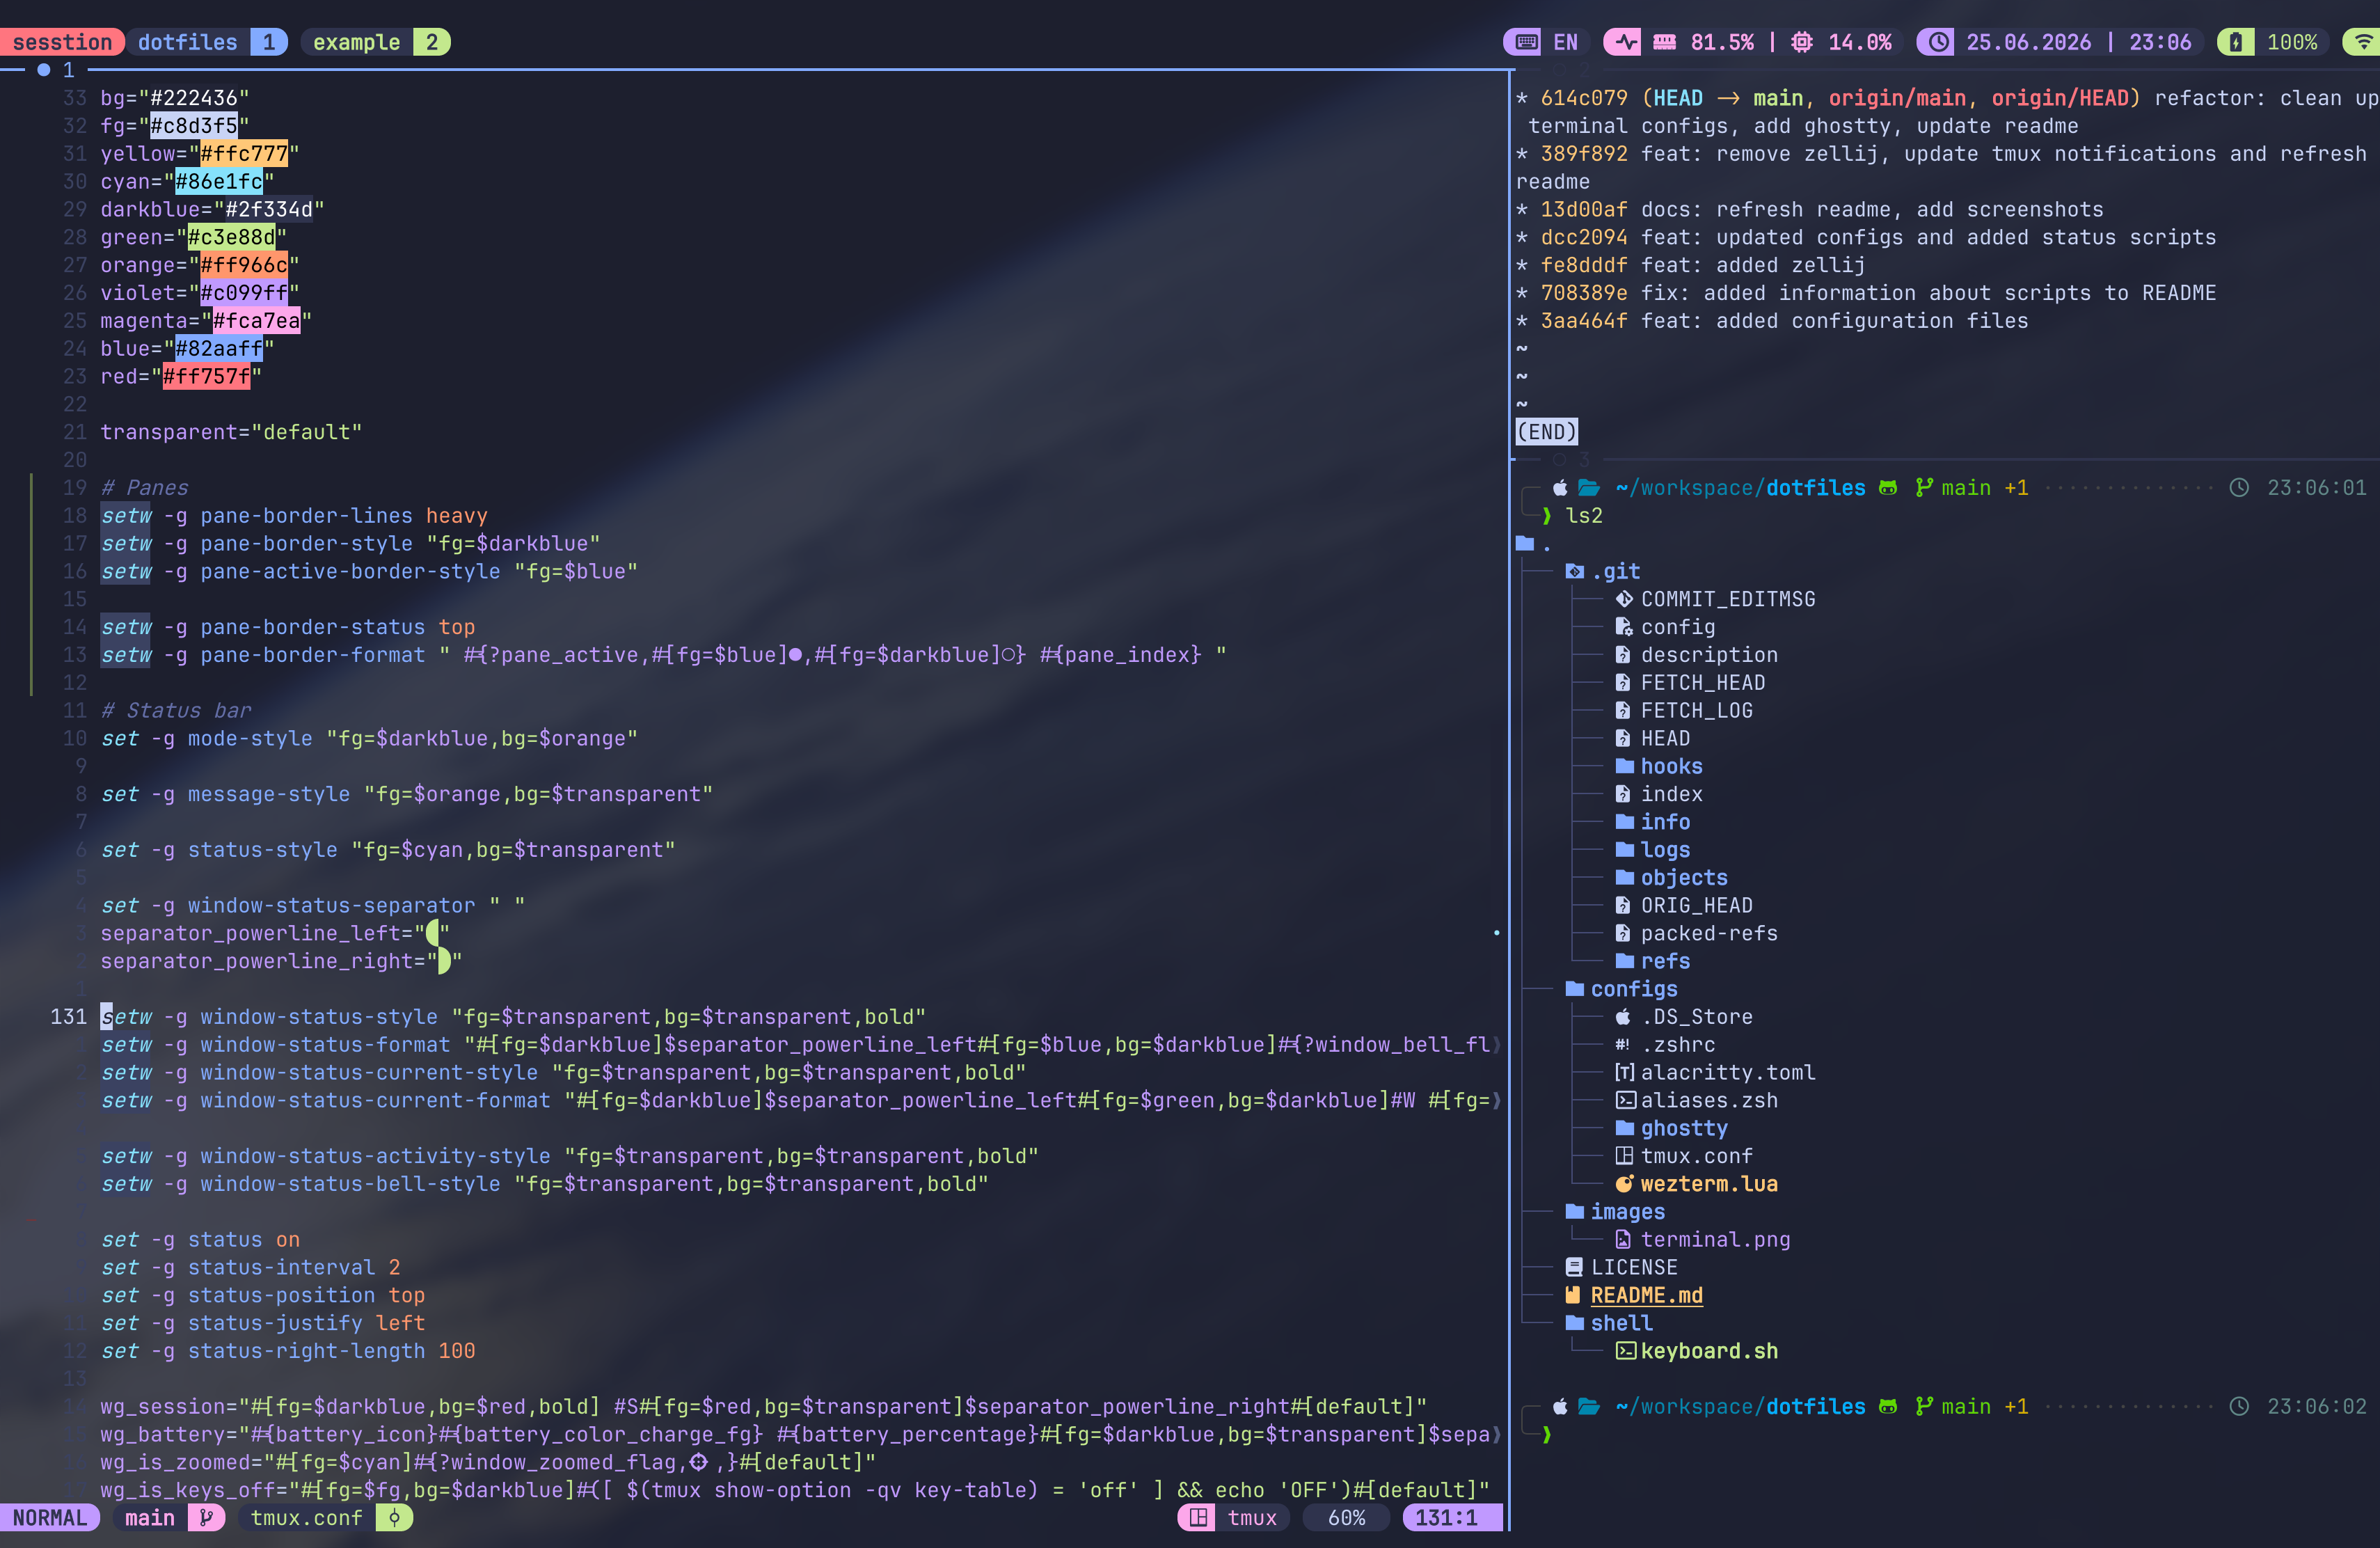
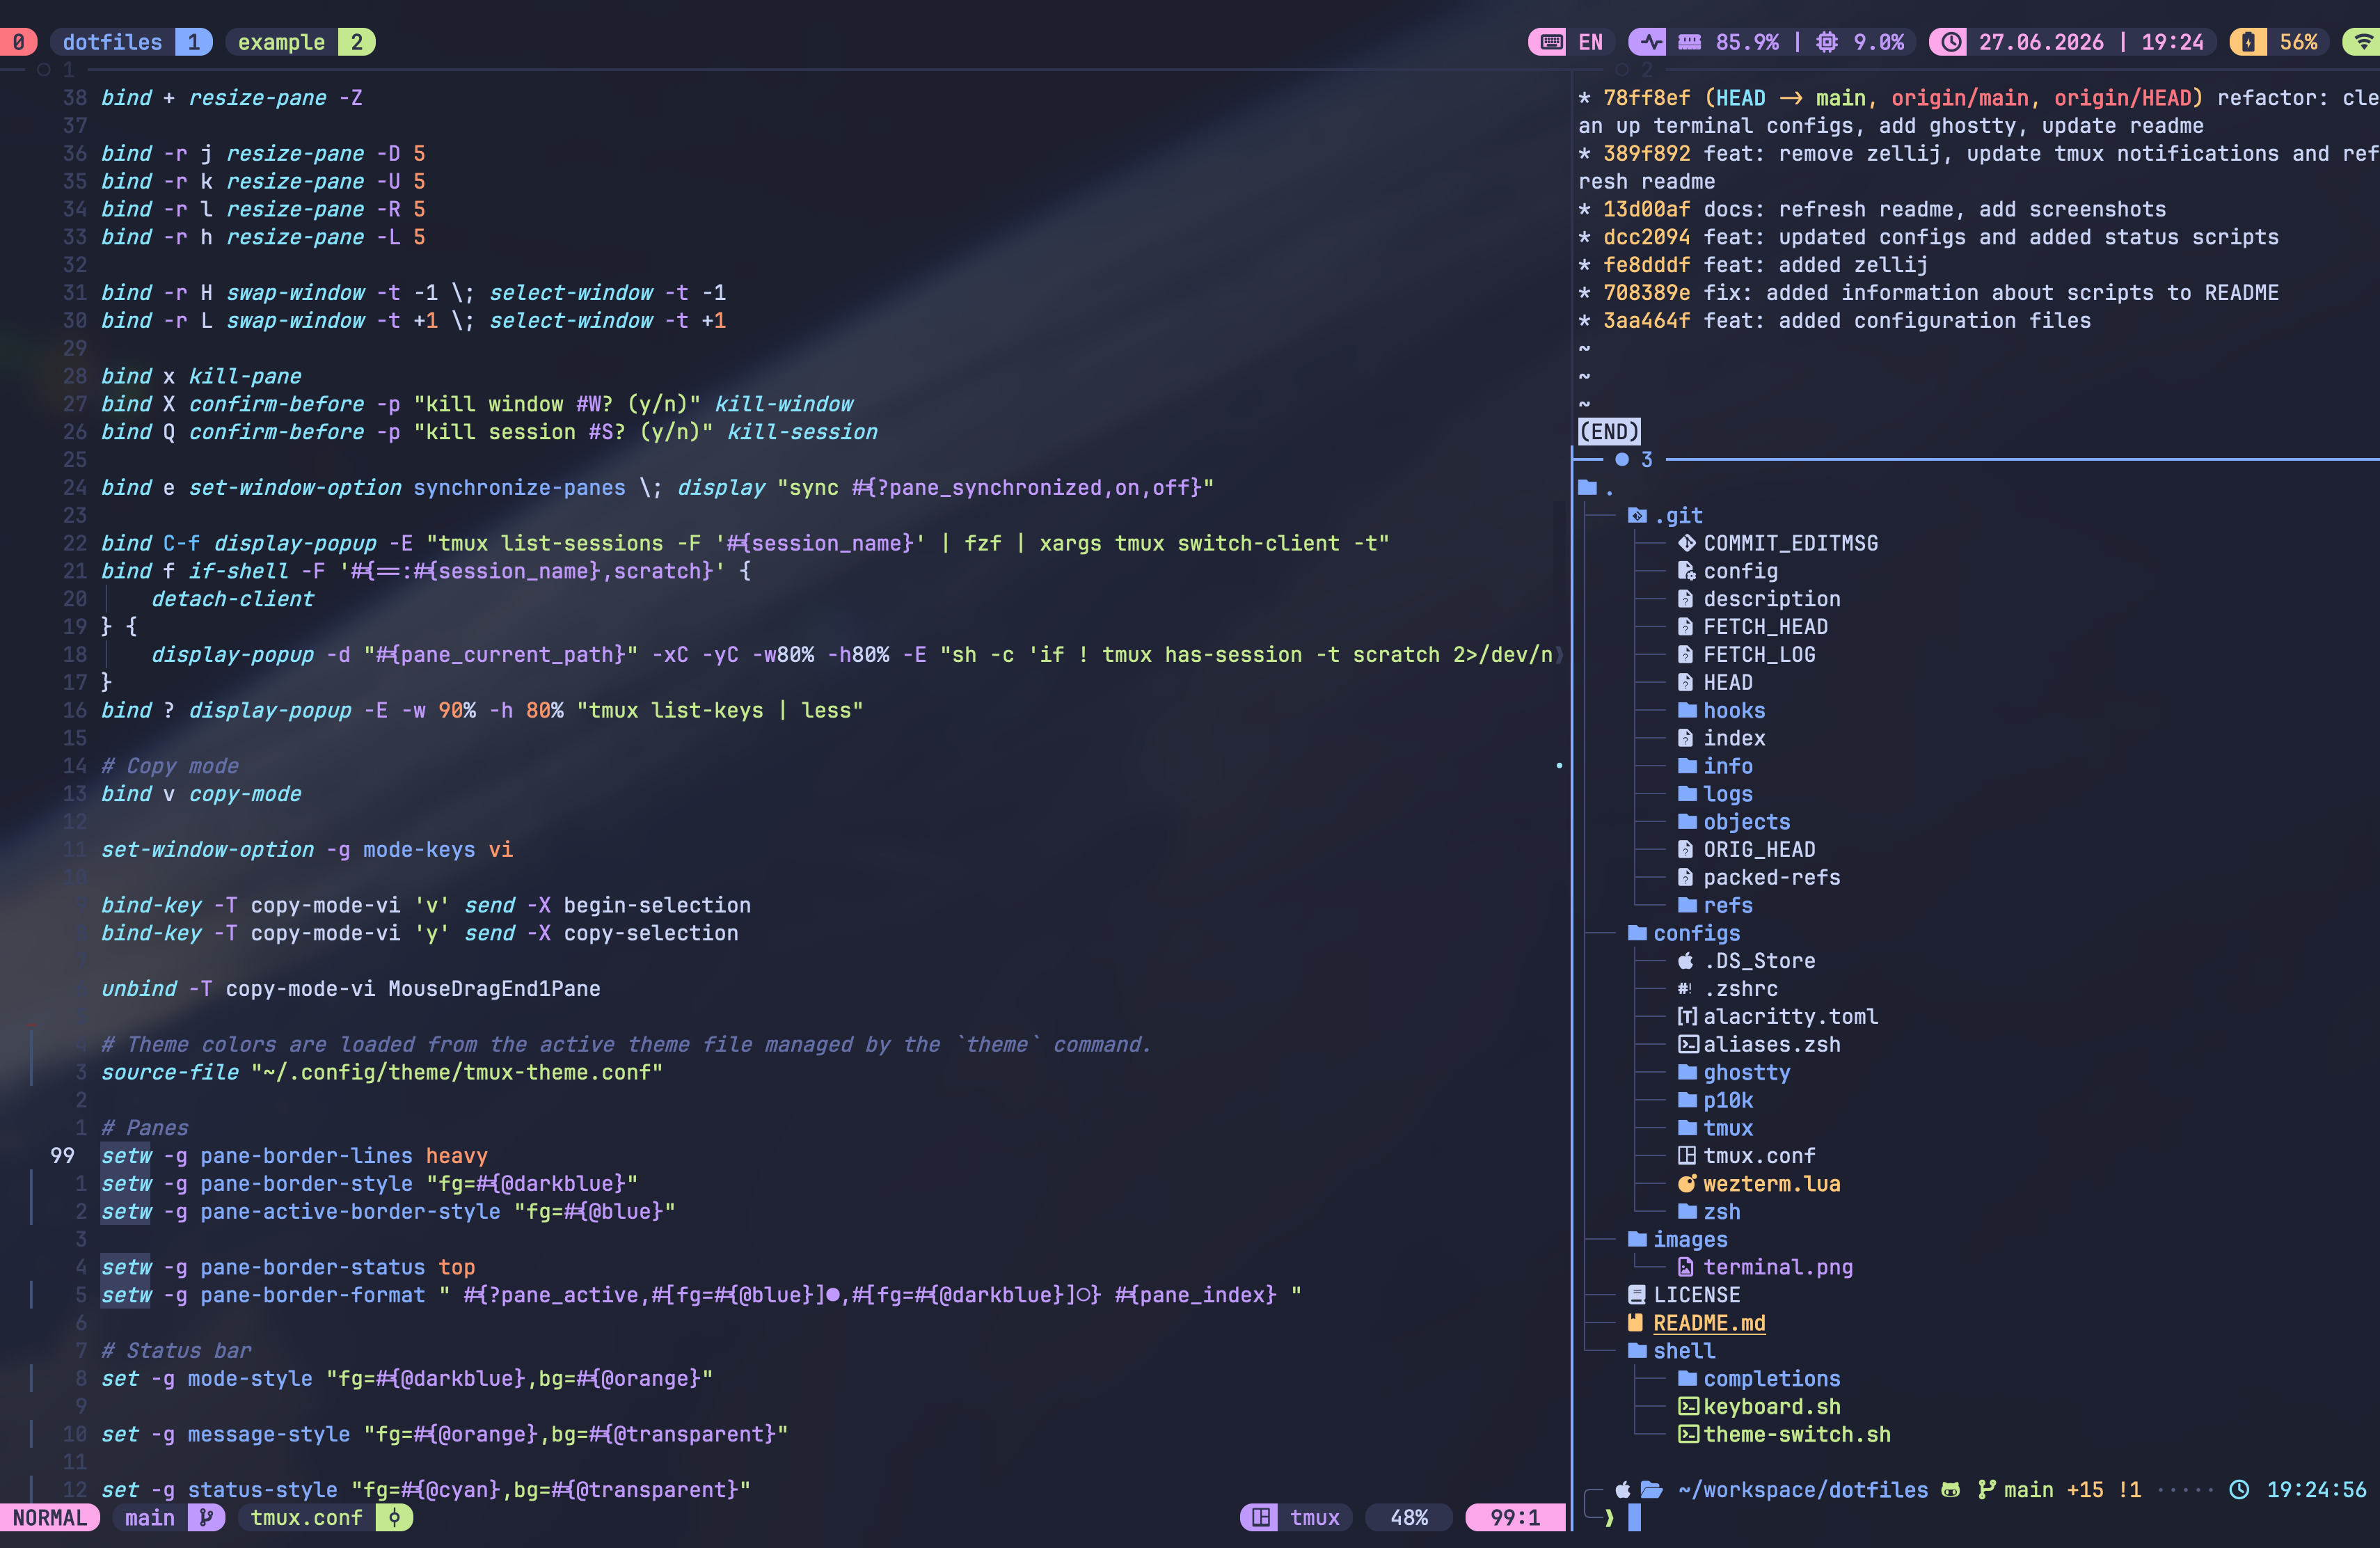
docs: update readme and screenshots

diff --git a/README.md b/README.md
@@ -6,78 +6,119 @@ This repository contains configuration files (dotfiles) for setting up a develop
 
 ### Terminal & Shell
 - **`.zshrc`** — Main Zsh configuration with Oh My Zsh, Powerlevel10k, plugins, and environment settings
-- **`aliases.zsh`** — Custom aliases and functions for shell productivity
+- **`aliases.zsh`** — Custom aliases, functions, and the `theme` command
+- **`zsh/secrets.zsh.example`** — Example file for private API keys and secrets; copy to `~/.config/zsh/secrets.zsh`
 - **`alacritty.toml`** — Alacritty terminal emulator configuration
+- **`alacritty/themes/tokyonight-*.toml`** — Alacritty dark/light theme files
 - **`wezterm.lua`** — WezTerm terminal emulator configuration
 - **`ghostty/config`** — Ghostty terminal emulator configuration
+- **`ghostty/theme-*.conf`** — Ghostty dark/light theme files
 
 ### Terminal Multiplexers
 - **`tmux.conf`** — Tmux configuration with custom keybindings, powerline-style status bar, popups, synchronize-panes, scratchpad, and plugins
+- **`tmux/tokyonight-*.conf`** — Tmux dark/light theme files using tmux user options (`@bg`, `@fg`, ...)
+
+### Shell Prompt
+- **`p10k/p10k-dark.zsh`** — Powerlevel10k configuration for TokyoNight Moon
+- **`p10k/p10k-light.zsh`** — Powerlevel10k configuration for TokyoNight Day
 
 ### Shell Scripts
+- **`shell/theme-switch.sh`** — Unified theme switcher for tmux, Ghostty, Alacritty, WezTerm, Neovim, and Powerlevel10k
 - **`shell/keyboard.sh`** — macOS input source indicator used by the Tmux status bar (shows `RU`/`EN`/etc.)
 
 ## Screenshots
 
-### Terminal
-![Terminal](images/terminal.png)
+### Terminal — TokyoNight Moon (dark)
+![Terminal dark](images/terminal.png)
+
+### Terminal — TokyoNight Day (light)
+![Terminal light](images/terminal-light.png)
+
+## Unified Theme Switching
+
+The `theme` command switches the active theme for tmux, Ghostty, Alacritty, WezTerm, Neovim, and the current pane's Powerlevel10k prompt:
+
+```bash
+theme dark    # TokyoNight Moon
+theme light   # TokyoNight Day
+theme toggle  # switch between dark and light
+theme status  # show current mode
+```
+
+`theme` is a shell function defined in `configs/aliases.zsh`. Zsh completions for it are provided in `shell/completions/` and added to `fpath` in `.zshrc`.
+
+### How it works
+
+- The source of truth is `~/.config/theme/mode` (`dark` or `light`; dark is the default).
+- `~/.config/theme/ghostty-theme.conf` is a symlink to the active Ghostty theme file.
+- `~/.config/theme/alacritty-theme.toml` is a symlink to the active Alacritty theme file.
+- `~/.config/theme/tmux-theme.conf` is a regular file overwritten by the selected Tmux theme. Tmux uses user options (`@bg`, `@fg`, ...) and format references (`#{@bg}`), so color changes apply instantly with a single `source-file`.
+- WezTerm reads `~/.config/theme/mode` and applies the matching built-in color scheme (`tokyonight_moon` or `tokyonight_day`). `~/.wezterm.lua` is touched after a theme change to trigger WezTerm's auto-reload.
+- `~/.p10k.zsh` is a symlink to either `configs/p10k/p10k-dark.zsh` or `configs/p10k/p10k-light.zsh`.
+- Neovim watches `~/.config/theme/mode` and switches between `tokyonight-moon` and `tokyonight-day`. Lualine is rebuilt on every `ColorScheme` event using dynamic colors from `utils/colors.lua`.
+
+### Powerlevel10k update behavior
+
+- The **active pane** updates immediately when you run `theme` (the prompt is redrawn after `p10k reload`).
+- **Other tmux panes** pick up the new p10k theme the next time they run a command (via a `precmd` hook that checks whether `~/.p10k.zsh` changed).
 
 ## Color Schemes
 
-The configurations are tuned for dark themes:
-
-- **Tokyo Night Moon** — primary color scheme for Tmux and Ghostty
-- **Catppuccin Mocha** — alternative Tmux palette (commented out, easy to switch)
-- **Dracula / Catppuccin Mocha** — available in WezTerm theme toggle
-
-To switch Tmux between Tokyo Night Moon and Catppuccin Mocha, comment/uncomment the corresponding block in `configs/tmux.conf` under the `# Theme` section.
+- **TokyoNight Moon** — primary dark color scheme for tmux, Ghostty, Alacritty, WezTerm, Neovim, and p10k
+- **TokyoNight Day** — primary light color scheme for tmux, Ghostty, Alacritty, WezTerm, Neovim, and p10k
 
 ## Installation Paths
 
-Files should be placed in the following locations:
+Files should be placed/symlinked in the following locations:
 
 ```
 ~/.zshrc
+~/.p10k.zsh
 ~/.config/alacritty/alacritty.toml
 ~/.config/ghostty/config
+~/.config/theme/
+~/.config/zsh/secrets.zsh
 ~/.wezterm.lua
 ~/.tmux.conf
 ~/.tmux/keyboard.sh
-~/.oh-my-zsh/aliases/aliases.zsh
 ```
 
 ## Installation
 
 1. Clone the repository:
    ```bash
-   git clone https://github.com/Pepetka/dotfiles.git ~/dotfiles
+   git clone https://github.com/Pepetka/dotfiles.git ~/workspace/dotfiles
    ```
 
 2. Create necessary directories:
    ```bash
    mkdir -p ~/.config/alacritty
    mkdir -p ~/.config/ghostty
-   mkdir -p ~/.oh-my-zsh/aliases
+   mkdir -p ~/.config/theme
+   mkdir -p ~/.config/zsh
    mkdir -p ~/.tmux
    ```
 
 3. Create symbolic links:
    ```bash
    # Zsh configuration
-   ln -sf ~/dotfiles/configs/.zshrc ~/.zshrc
-   ln -sf ~/dotfiles/configs/aliases.zsh ~/.oh-my-zsh/aliases/aliases.zsh
+   ln -sf ~/workspace/dotfiles/configs/.zshrc ~/.zshrc
 
    # Terminal emulators
-   ln -sf ~/dotfiles/configs/alacritty.toml ~/.config/alacritty/alacritty.toml
-   ln -sf ~/dotfiles/configs/ghostty/config ~/.config/ghostty/config
-   ln -sf ~/dotfiles/configs/wezterm.lua ~/.wezterm.lua
+   ln -sf ~/workspace/dotfiles/configs/alacritty.toml ~/.config/alacritty/alacritty.toml
+   ln -sf ~/workspace/dotfiles/configs/ghostty/config ~/.config/ghostty/config
+   ln -sf ~/workspace/dotfiles/configs/wezterm.lua ~/.wezterm.lua
 
    # Tmux
-   ln -sf ~/dotfiles/configs/tmux.conf ~/.tmux.conf
-   ln -sf ~/dotfiles/shell/keyboard.sh ~/.tmux/keyboard.sh
+   ln -sf ~/workspace/dotfiles/configs/tmux.conf ~/.tmux.conf
+   ln -sf ~/workspace/dotfiles/shell/keyboard.sh ~/.tmux/keyboard.sh
    ```
 
-4. Install Tmux plugins:
+   Aliases are sourced directly from `$DOTFILES/configs/aliases.zsh` in `.zshrc`, so no separate symlink is needed.
+
+4. The `theme` command will create `~/.config/theme/` contents and manage the `~/.p10k.zsh` symlink on first run.
+
+5. Install Tmux plugins:
    - Install [Tmux Plugin Manager (TPM)](https://github.com/tmux-plugins/tpm)
    - Open Tmux and press `prefix + I` to install plugins
 
@@ -85,8 +126,8 @@ Files should be placed in the following locations:
 
 ### Required
 - **[Oh My Zsh](https://ohmyz.sh/)** — Framework for Zsh configuration
-- **[Powerlevel10k](https://github.com/romkatv/powerlevel10k)** — Zsh theme (referenced in `.zshrc`)
-  - `~/.p10k.zsh` is user-specific and generated by `p10k configure`
+- **[Powerlevel10k](https://github.com/romkatv/powerlevel10k)** — Zsh theme
+  - `~/.p10k.zsh` is a symlink managed by the `theme` command; do not run `p10k configure` unless you want to overwrite it
 
 ### Optional Terminal Emulators
 - **[Alacritty](https://alacritty.org/)** — Fast, cross-platform terminal emulator
@@ -121,7 +162,7 @@ The `.zshrc` includes several plugins that enhance the shell experience:
   - `prefix + Shift + h/l` — swap window left/right
   - `prefix + x/X/Q` — kill pane/window/session
 - **Powerline-style status bar** with session, layout, CPU/RAM, battery, and time widgets
-- **Tokyo Night Moon** color scheme (Catppuccin Mocha available as alternative)
+- **TokyoNight Moon** color scheme
 
 ### Aliases & Functions
 The configuration includes numerous aliases for:
@@ -131,6 +172,7 @@ The configuration includes numerous aliases for:
 - AI coding agent providers (`deepseek`, `zai`, `minimax`, `kimic`)
 
 ### Custom Functions
+- `theme` — Switch the active terminal/editor theme
 - `yy()` — Yazi file manager integration
 - `gcom()` — Smart git checkout `master`/`main`
 - `hurl_pretty()` — Pretty-printed HTTP responses